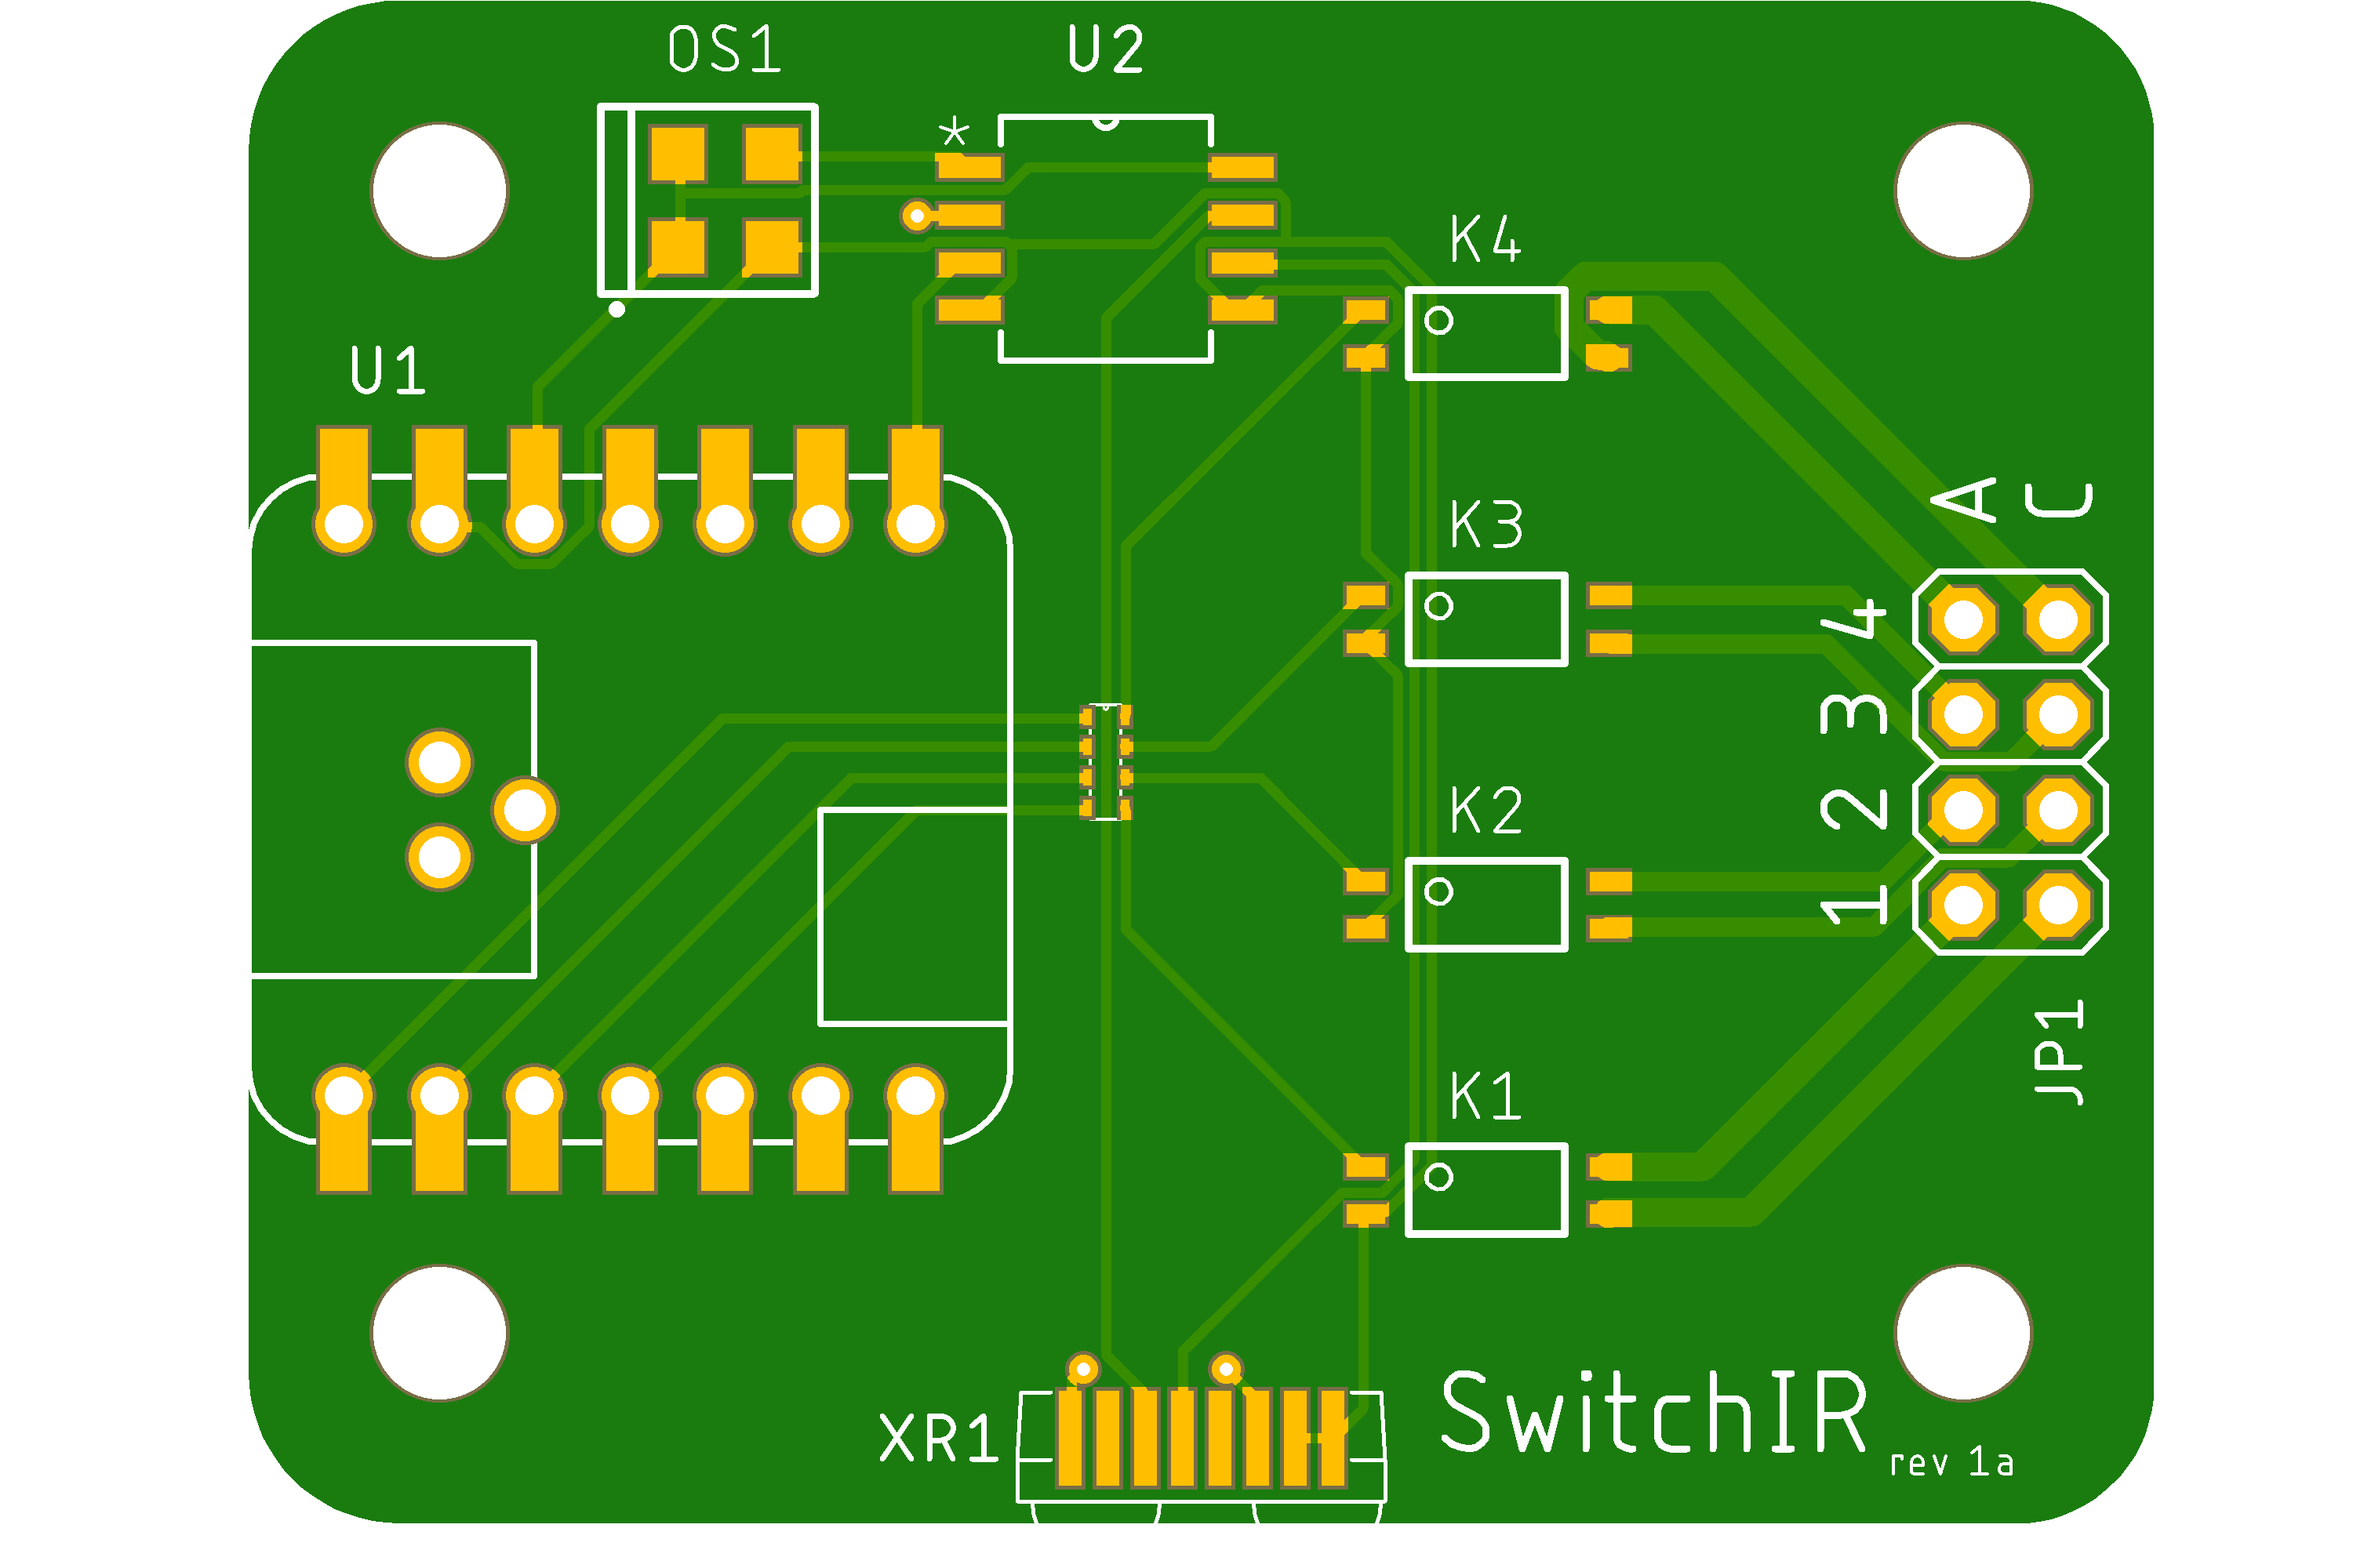
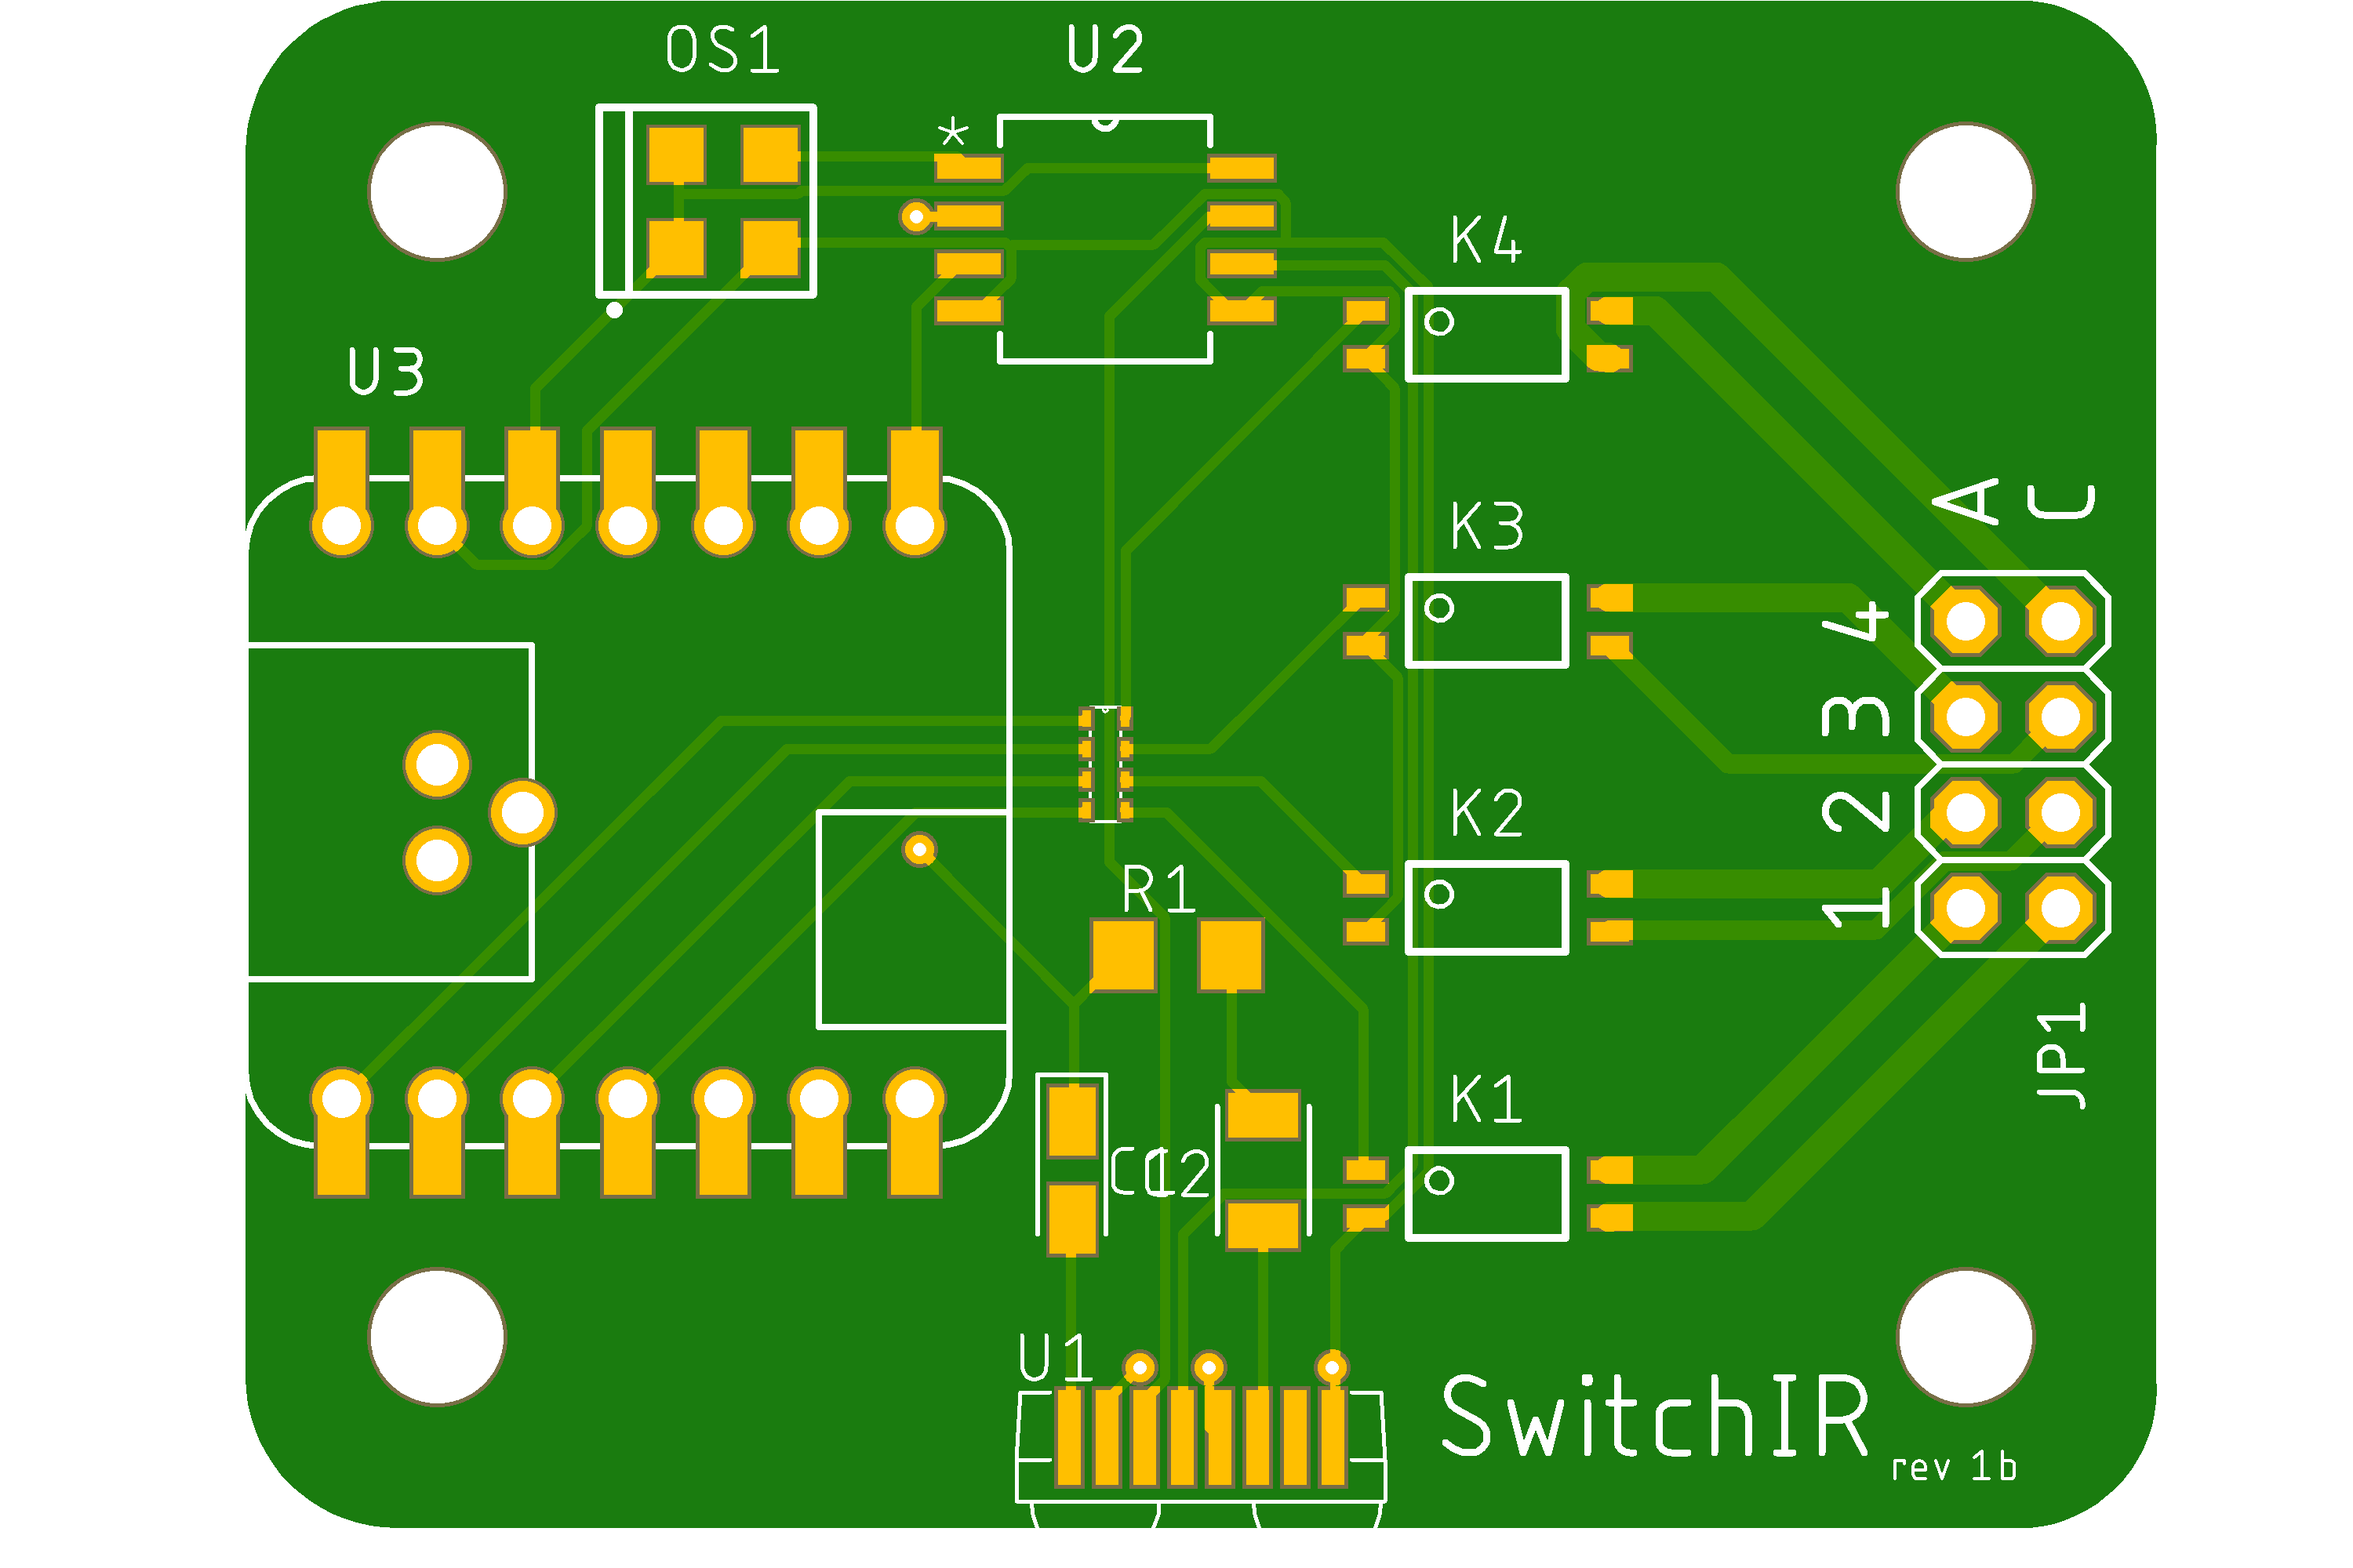
rework part & passives

diff --git a/README.md b/README.md
@@ -14,9 +14,10 @@ The use of an IR transceiver & encoder/decoder will allow the MCU to learn and t
 
 ## Status
 
-|    Date    | Status                              |
-| :--------: | ----------------------------------- |
-| 2022-10-25 | Boards and parts have been ordered. |
+|    Date    | Status                                                    |
+| :--------: | --------------------------------------------------------- |
+| 2022-10-25 | Reworked defective transceiver library part and passives. |
+| 2022-10-25 | Rev 1a boards and parts have been ordered.                |
 
 The full complement of Eagle and Gerber files (for PCB fabrication) will be provided after proof-of-concept.
 
@@ -31,15 +32,18 @@ The full complement of Eagle and Gerber files (for PCB fabrication) will be prov
 
 ## Parts List
 
-| Component                                                    | Quantity | Price each |   Total    | Notes |
-| ------------------------------------------------------------ | :------: | :--------: | :--------: | ----- |
-| [IR Transceiver](https://www.digikey.com/short/1355hrb3)     |    1     |   $5.62    |   $5.62    |       |
-| [IR Encoder/Decoder](https://www.digikey.com/short/p2qnwtz0) |    1     |   $2.65    |   $2.65    |       |
-| [Oscillator](https://www.digikey.com/short/chp5z3nb)         |    1     |   $1.07    |   $1.07    |       |
-| [Relays](https://www.digikey.com/short/c07nbzqb)             |    4     |   $1.85    |    7.40    |       |
-| MCU                                                          |    1     |            |            |       |
-|                                                              |          |            |            |       |
-| **Total**                                                    |          |            | **$16.74** |       |
+|       | Component                                                    | Quantity | Price each |   Total    | Notes |
+| :---: | ------------------------------------------------------------ | :------: | :--------: | :--------: | ----- |
+|  U1   | [IR Transceiver](https://www.digikey.com/short/1355hrb3)     |    1     |   $5.62    |   $5.62    |       |
+|  U2   | [IR Encoder/Decoder](https://www.digikey.com/short/p2qnwtz0) |    1     |   $2.65    |   $2.65    |       |
+|  OS1  | [Oscillator](https://www.digikey.com/short/chp5z3nb)         |    1     |   $1.07    |   $1.07    |       |
+| K1-K4 | 2A SS [Relays](https://www.digikey.com/short/c07nbzqb)       |    4     |   $1.85    |    7.40    |       |
+|  C1   | 16V 47µF 1206 tantalum [capacitor](https://www.digikey.com/short/nt979437) |    1     |   $0.36    |   $0.36    |       |
+|  C2   | 16V 0.1µF 1206 ceramic [capacitor](https://www.digikey.com/short/2hbqb9fq) |    1     |   $0.11    |   $0.11    |       |
+|  R1   | 47Ω 1206 [resistor](https://www.digikey.com/short/h57hp7z4)  |    1     |   $0.10    |   $0.10    |       |
+|  U3   | MCU - Adafruit QT Py                                         |    1     |            |            |       |
+|       |                                                              |          |            |            |       |
+|       | **Total**                                                    |          |            | **$xx.xx** |       |
 
 ## Components
 
@@ -83,10 +87,6 @@ mockup: Vishay TFDU4101 (Mouser) [datasheet](https://www.mouser.com/datasheet/2/
 * ~~Itsy Bitsy~~
 
 ## Board
-
-**JLCPCB**:
-
-![fab rendering](hardware/board/JLC.png)
 
 **Eagle**:
 
